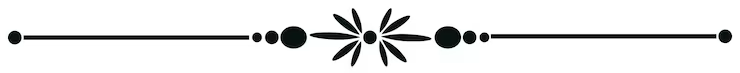
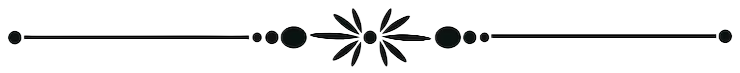
Modification du séparateur sur la page index

diff --git a/projets-autonomes/p1-basketclub/styles-sections.css b/projets-autonomes/p1-basketclub/styles-sections.css
@@ -231,7 +231,7 @@
 }
 
 .badge-info {
-  background-color: rgb(84, 200, 243);
+  background-color: #001D53;
   color: white;
   padding: 4px;
   text-align: center;
